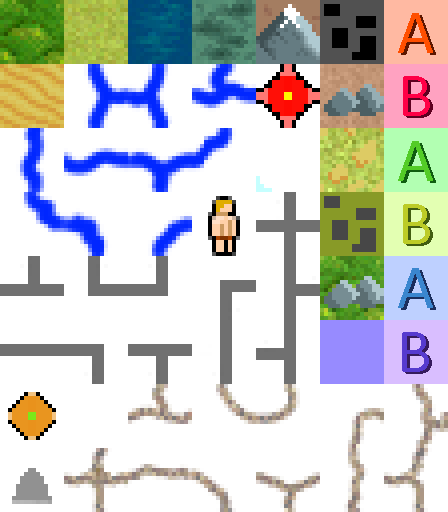
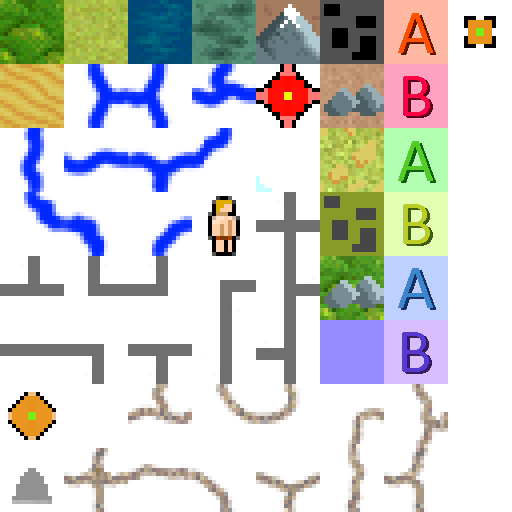
building map tile

diff --git a/src/main/kotlin/render/tilesets/SpriteSheets.kt b/src/main/kotlin/render/tilesets/SpriteSheets.kt
@@ -26,7 +26,7 @@ object SpriteSheets {
             "sheets/tiles_ui.png", 6, 5, Texture.TextureFilter.Nearest
         ),
         MapSprites(
-            "sheets/tiles_map.png", 7, 8, Screen.textureFilter
+            "sheets/tiles_map.png", 8, 8, Screen.textureFilter
         )
     }
 

diff --git a/src/main/kotlin/render/tilesets/MapTileSet.kt b/src/main/kotlin/render/tilesets/MapTileSet.kt
@@ -65,4 +65,5 @@ fun MapTileSet() =
         setTile(Glyph.MAP_CITY, SimpleTile(this, 4, 1))
         setTile(Glyph.MAP_VILLAGE, SimpleTile(this, 0, 6))
         setTile(Glyph.MAP_CAVE, SimpleTile(this, 0, 7))
+        setTile(Glyph.MAP_BUILDING, SimpleTile(this, 7, 0))
     }

diff --git a/src/main/kotlin/render/tilesets/Glyph.kt b/src/main/kotlin/render/tilesets/Glyph.kt
@@ -230,6 +230,7 @@ enum class Glyph {
     MAP_CITY,
     MAP_VILLAGE,
     MAP_CAVE,
+    MAP_BUILDING,
     MAP_ROAD_NSE,
     MAP_ROAD_NSW,
     MAP_ROAD_NWE,
